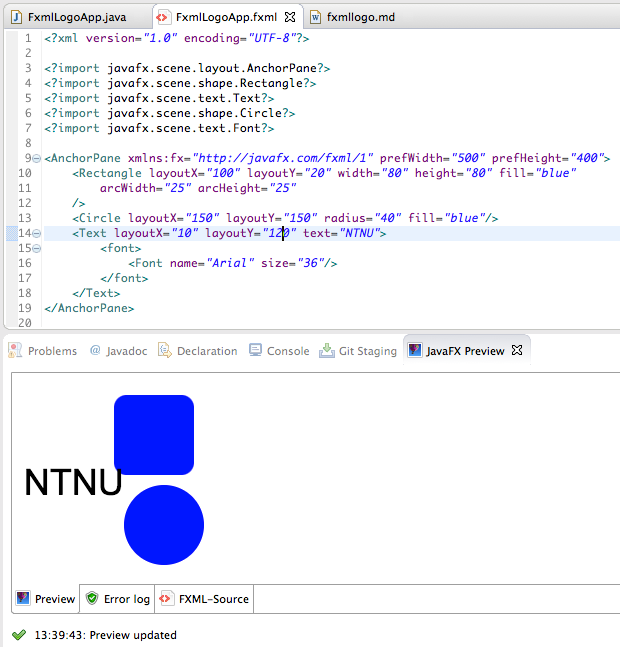
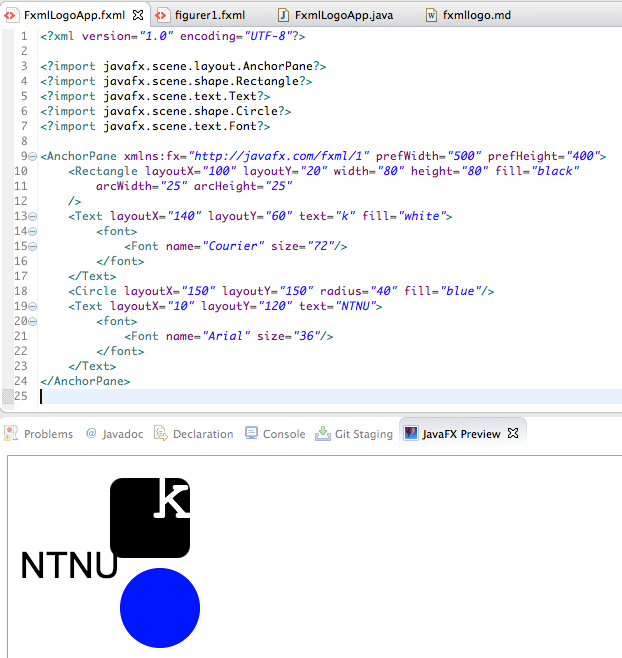
Bygget riktig branch denne gang

Changed region(s): [[0.0, 0.0, 0.9806, 0.9892], [0.6742, 0.0, 0.8274, 0.0618]]

diff --git a/oppgaver/javafx/fxmllogo/fxmllogo.html b/oppgaver/javafx/fxmllogo/fxmllogo.html
@@ -1,14 +1,28 @@
-<html><head><meta charset="utf-8"/><meta name="viewport" content="width=device-width, initial-scale=1"/><title>NTNU-logo med FXML | YourCodeClubName</title><link href="../../assets/style.min.css" rel="stylesheet"/></head><body><div class="container"><div class="row"><div class="col-xs-12"><div class="top-menu"><a href="../../index.html" class="btn btn-default"><span aria-hidden="true" class="glyphicon glyphicon-home"></span> Home</a></div></div><div class="col-xs-12"><header class="clearfix"><img src="../../assets/img/ccno_logo.png" class="logo hidden-xs"/><h1 class="title">NTNU-logo med FXML<a href="/javafx/fxmllogo/fxmllogo.pdf" title="Download PDF" class="download"><span class="glyphicon glyphicon-save-file"></span></a></h1></header></div><div class="col-xs-12"><div class="content"><section id="introduksjon" class="level1 intro">
+<html><head><meta charset="utf-8"/><meta name="viewport" content="width=device-width, initial-scale=1"/><title>Logo med FXML | YourCodeClubName</title><link href="../../assets/style.min.css" rel="stylesheet"/></head><body><div class="container"><div class="row"><div class="col-xs-12"><div class="top-menu"><a href="../../index.html" class="btn btn-default"><span aria-hidden="true" class="glyphicon glyphicon-home"></span> Home</a></div></div><div class="col-xs-12"><header class="clearfix"><img src="../../assets/img/ccno_logo.png" class="logo hidden-xs"/><h1 class="title">Logo med FXML<a href="/javafx/fxmllogo/fxmllogo.pdf" title="Download PDF" class="download"><span class="glyphicon glyphicon-save-file"></span></a></h1></header></div><div class="col-xs-12"><div class="content"><section id="introduksjon" class="level1 intro">
 <h1>Introduksjon</h1>
-<p>Formålet til denne leksjonen er å lære hvordan du kan bruke <strong>FXML</strong> for å lage skjerminnhold, og <strong>to måter</strong> å lage slikt innhold. I tillegg skal du lære hvordan du får app-en til å last inn og vise frem innholdet i FXML-filer.</p>
-<p>I leksjonen <a href="../helloworld/helloworld.html">Hello world</a> lærte du om hvordan du kan lage en app som viste et vindu med et tekst-objekt (av type <strong>Text</strong>). Da skrev du Java-kode som <em>laget</em> tekst-objektet, <em>satte grafiske egenskaper</em> for tekst.objektet og <em>la det til</em> app-vinduet. Slik kode kan fort bli lang og uoversiktlig, og det kan være vanskelig å skrive kode som har ønsker effekt og se for seg hvordan skjerminnholdet vil bli seende ut.</p>
-<p>For å gjøre arbeidet med skjerminnhold enklere, så finnes det en egen kode-type kalt FXML for å lage skjerminnhold. FXML ligner på HTML ved at det bruker XML-elementer, f.eks. <code class="lang-html"><span class="hljs-tag">&lt;<span class="hljs-title">Text</span> <span class="hljs-attribute">...</span>&gt;</span> ... <span class="hljs-tag">&lt;/<span class="hljs-title">Text</span>&gt;</span></code> og attributter, f.eks. <code class="lang-java">fill=<span class="hljs-string">"blue"</span></code> for å beskrive innholdet. Når en skal lage FXML-filer, kan en enten redigere FXML som tekst i en egen FXML-editor eller bruke en egen tegne-app som leser og skriver FXML-filer. Vi skal se på begge disse teknikkene i denne leksjonen.</p>
+<p>En viktig del av det å lage app-er er å utforme skjerminnholdet, dvs. alt app-en inneholder av grafikk, knapper, lister, osv. Formålet til denne leksjonen er å lære hvordan du kan bruke <strong>FXML</strong> for å lage skjerminnhold, og <strong>to måter</strong> å lage slikt innhold. I tillegg skal du lære hvordan du får app-en til å last inn og vise frem innholdet i FXML-filer. App-en er ikke så komplisert, den skal bare vise frem logoene til Kodeklubben og NTNU (eller andre logoer, hvis du ønsker det):</p>
+<table>
+<thead>
+<tr class="header">
+<th style="text-align: center;">Kodeklubben</th>
+<th style="text-align: center;">NTNU</th>
+</tr>
+</thead>
+<tbody>
+<tr class="odd">
+<td style="text-align: center;"><img src="../../../assets/img/ccno_logo.png"></td>
+<td style="text-align: center;"><img src="https://innsida.ntnu.no/documents/10157/3573032/logo2_ntnu_u-slagord.gif"></td>
+</tr>
+</tbody>
+</table>
+<p>I leksjonen <a href="../helloworld/helloworld.html">Hello world</a> lærte du om hvordan du kan lage en app som viste et vindu med et tekst-objekt (av type <strong>Text</strong>). Da skrev du Java-kode som <em>laget</em> tekst-objektet, <em>satte grafiske egenskaper</em> for tekst-objektet og <em>la det til</em> app-vinduet. Slik kode kan fort bli lang og uoversiktlig, og det kan være vanskelig å skrive kode som har ønsket effekt og se for seg hvordan skjerminnholdet vil bli seende ut.</p>
+<p>For å gjøre arbeidet med skjerminnhold enklere, så finnes det en egen kode-type kalt <strong>FXML</strong> for å lage skjerminnhold. FXML ligner på HTML ved at det bruker XML-elementer, f.eks. <code class="lang-html"><span class="hljs-tag">&lt;<span class="hljs-title">Text</span> <span class="hljs-attribute">...</span>&gt;</span> ... <span class="hljs-tag">&lt;/<span class="hljs-title">Text</span>&gt;</span></code> og attributter, f.eks. <code class="lang-java">fill=<span class="hljs-string">"blue"</span></code> for å beskrive innholdet. Når en skal lage FXML-filer, kan en enten redigere FXML som tekst i en egen FXML-editor eller bruke en egen tegne-app som leser og skriver FXML-filer. Vi skal se på begge disse teknikkene i denne leksjonen.</p>
 </section>
 <section id="steg-1-opprette-app-pakke-app-klasse-og-fxml-fil" class="level1 activity">
 <h1>Steg 1: Opprette app-pakke, app-klasse og FXML-fil</h1>
 <ul>
 <li><p>Lag først en ny app-pakke og app-klasse som forklart i <a href="../helloworld/helloworld.html">Hello world-leksjonen</a>. Bruk <strong>fxmllogo</strong> som navn på pakken og <strong>FxmlLogoApp</strong> som navn på app-klassen.</p></li>
-<li><p>Høyreklikk på fxmllogo-pakken og velg <code>New &gt; Other...</code> så du får opp en liste med såkalte <em>veivisere</em> (eng: <em>wizards</em>). Vi skal bruke den som heter <strong>FXML Document</strong>. Det enkleste er å skrive inn ‘fx’ i søkefeltet, for å snevre inn utvalget:</p>
+<li><p>Høyreklikk på <strong>fxmllogo</strong>-pakken og velg <code>New &gt; Other...</code> så du får opp en liste med såkalte <em>veivisere</em> (eng: <em>wizards</em>). Vi skal bruke den som heter <strong>New FXML Document</strong>. Det enkleste er å skrive inn ‘fx’ i søkefeltet, for å snevre inn utvalget:</p>
 <figure>
 <img src="../images/new-fxml-document.png" title="New FXML document">
 </figure>
@@ -20,10 +34,16 @@
 <figure>
 <img src="../images/initial-FxmlLogoApp.fxml.png" title="Initial FxmlLogoApp.fxml">
 </figure></li>
-<li><p>Rediger teksten slik at den blir som følger:</p>
+<li><p>Denne FXML-en gir bare et tomt panel (av typen <strong>AnchorPane</strong>), så for å få noe å jobbe med, så trenger vi Rediger teksten slik at den blir som følger:</p>
 <pre class="sourceCode xml"><code class="sourceCode xml lang-html"><span class="hljs-tag">&lt;<span class="hljs-title">AnchorPane</span> <span class="hljs-attribute">xmlns:fx</span>=<span class="hljs-value">"http://javafx.com/fxml/1"</span> <span class="hljs-attribute">prefWidth</span>=<span class="hljs-value">"500"</span> <span class="hljs-attribute">prefHeight</span>=<span class="hljs-value">"400"</span>&gt;</span>
-<span class="hljs-tag">&lt;<span class="hljs-title">Rectangle</span> <span class="hljs-attribute">layoutX</span>=<span class="hljs-value">"100"</span> <span class="hljs-attribute">layoutY</span>=<span class="hljs-value">"20"</span> <span class="hljs-attribute">width</span>=<span class="hljs-value">"80"</span> <span class="hljs-attribute">height</span>=<span class="hljs-value">"80"</span> <span class="hljs-attribute">fill</span>=<span class="hljs-value">"blue"</span>
-    <span class="hljs-attribute">arcWidth</span>=<span class="hljs-value">"25"</span> <span class="hljs-attribute">arcHeight</span>=<span class="hljs-value">"25"</span>/&gt;</span>
+<span class="hljs-tag">&lt;<span class="hljs-title">Rectangle</span> <span class="hljs-attribute">layoutX</span>=<span class="hljs-value">"100"</span> <span class="hljs-attribute">layoutY</span>=<span class="hljs-value">"20"</span> <span class="hljs-attribute">width</span>=<span class="hljs-value">"80"</span> <span class="hljs-attribute">height</span>=<span class="hljs-value">"80"</span> <span class="hljs-attribute">fill</span>=<span class="hljs-value">"black"</span>
+    <span class="hljs-attribute">arcWidth</span>=<span class="hljs-value">"25"</span> <span class="hljs-attribute">arcHeight</span>=<span class="hljs-value">"25"</span>
+/&gt;</span>
+<span class="hljs-tag">&lt;<span class="hljs-title">Text</span> <span class="hljs-attribute">layoutX</span>=<span class="hljs-value">"140"</span> <span class="hljs-attribute">layoutY</span>=<span class="hljs-value">"60"</span> <span class="hljs-attribute">text</span>=<span class="hljs-value">"k"</span> <span class="hljs-attribute">fill</span>=<span class="hljs-value">"white"</span>&gt;</span>
+    <span class="hljs-tag">&lt;<span class="hljs-title">font</span>&gt;</span>
+        <span class="hljs-tag">&lt;<span class="hljs-title">Font</span> <span class="hljs-attribute">name</span>=<span class="hljs-value">"Courier"</span> <span class="hljs-attribute">size</span>=<span class="hljs-value">"72"</span>/&gt;</span>
+    <span class="hljs-tag">&lt;/<span class="hljs-title">font</span>&gt;</span>
+<span class="hljs-tag">&lt;/<span class="hljs-title">Text</span>&gt;</span>
 <span class="hljs-tag">&lt;<span class="hljs-title">Circle</span> <span class="hljs-attribute">layoutX</span>=<span class="hljs-value">"150"</span> <span class="hljs-attribute">layoutY</span>=<span class="hljs-value">"150"</span> <span class="hljs-attribute">radius</span>=<span class="hljs-value">"40"</span> <span class="hljs-attribute">fill</span>=<span class="hljs-value">"blue"</span>/&gt;</span>
 <span class="hljs-tag">&lt;<span class="hljs-title">Text</span> <span class="hljs-attribute">layoutX</span>=<span class="hljs-value">"10"</span> <span class="hljs-attribute">layoutY</span>=<span class="hljs-value">"120"</span> <span class="hljs-attribute">text</span>=<span class="hljs-value">"NTNU"</span>&gt;</span>
     <span class="hljs-tag">&lt;<span class="hljs-title">font</span>&gt;</span>
@@ -34,17 +54,140 @@
 <p>FXML-editoren har samme type kode-komplettering som Java-editoren. Når du f.eks. har skrevet inn <code>&lt;Rect</code>, kan du trykk ctrl-mellomrom og editoren vil både fylle ut resten av <strong>Rectangle</strong>-navnet og legge til en import-setning øverst i fila (tilsvarende import-setningen i Java):</p>
 <p><code class="lang-html"><span class="hljs-pi">&lt;?import javafx.scene.shape.Rectangle?&gt;</span></code></p>
 <p>(Hvis du ikke bruker kode-kompletteringsfunksjonen, så må du skrive inn import-setningen selv.) Tilsvarende kan du bruke kode-komplettering på attributt-navnene <strong>layoutX</strong>, <strong>layoutY</strong>, <strong>width</strong>, <strong>height</strong>, <strong>fill</strong> osv.</p></li>
-<li><p>Mens du redigerer FXML-koden, så kan det være kjekt å se hvordan innholdet vil bli seende ut, når det lastes inn og vises frem. Eclipse har et eget panel kalt <strong>JavaFX preview</strong> som hele tiden laster inn FXML-koden du redigerer og viser frem innholdet. Dette åpnes ved å velge <code>Window &gt; Show View...</code> og så finne panelet i lista. Bruk søkefeltet for å filtrere lista (skriv ’, så panelet blir enklere å finne.</p>
+<li><p>Mens du redigerer FXML-koden, så kan det være kjekt å se hvordan innholdet vil bli seende ut, når det lastes inn og vises frem. Eclipse har et eget panel kalt <strong>JavaFX preview</strong> som hele tiden laster inn FXML-koden du redigerer og viser frem innholdet. Dette åpnes ved å velge <code>Window &gt; Show View...</code> og så finne panelet i lista. Bruk søkefeltet for å filtrere lista (skriv ‘pre’, så panelet blir enklere å finne.</p>
 <figure>
 <img src="../images/fxml-editor-with-preview-pane.png" title="FXML-editor med preview-panel">
-</figure></li>
+</figure>
+<p>Som du ser så inneholder FXML-fila allerede mange av de grafiske elementene som trengs for å lage begge logoene, men ikke alle. Din jobb blir å justere på FXML-koden, så logoene blir omtrent som vist øverst i denne leksjonen.</p></li>
 </ul>
 <section id="litt-om-fxml" class="level2">
 <h2>Litt om FXML</h2>
-<p>Du har kanskje kjent igjen mange av ordene i FXML-fila fra Java-koden du skrev i <a href="../helloworld/helloworld.html">Hello world-leksjonen</a>, og det er ikke tilfeldig. Enkelt sagt så tilsvarer elementnavnene i FXML-koden (ordet etter ‘&lt;’ og ‘&lt;/’), f.eks. <strong>Text</strong> og <strong>Rectangle</strong> Java-klasser, og attributtnavnene tilsvarer egenskaper, f.eks. <strong>layoutX</strong>, <strong>width</strong> og <strong>fill</strong>. Det er også noen elementnavn som tilsvarer egenskaper, f.eks. <strong>font</strong>. Når FXML-koden blir lest inn, så vil hvert element som tilsvarer en Java-klasse bli til en instans (et Java-objekt) av den klassen, og hvert attributt bli brukt til å sette en egenskap, som om en brukt tilsvarende <strong>set</strong>-metode.</p>
+<p>Du har kanskje kjent igjen mange av ordene i FXML-fila fra Java-koden du skrev i <a href="../helloworld/helloworld.html">Hello world-leksjonen</a>, og det er ikke tilfeldig. Enkelt sagt så tilsvarer elementnavnene i FXML-koden (ordet etter <code>&lt;</code> og <code>&lt;/</code>), f.eks. <strong>Text</strong> og <strong>Rectangle</strong> Java-klasser, og attributtnavnene tilsvarer egenskaper, f.eks. <strong>layoutX</strong>, <strong>width</strong> og <strong>fill</strong>. Det er også noen elementnavn som tilsvarer egenskaper, f.eks. <strong>font</strong>. Når FXML-koden blir lest inn, så vil hvert element som tilsvarer en Java-klasse bli til en instans (et Java-objekt) av den klassen, og hvert attributt bli brukt til å sette en egenskap, som om en brukte tilsvarende <strong>set</strong>-metode. Følgende Java- og FXML-kode betyr omtrent det samme:</p>
+<pre class="sourceCode java"><code class="sourceCode java lang-java">Circle circle = <span class="hljs-keyword">new</span> Circle();
+circle.setLayoutX(<span class="hljs-number">150</span>);
+circle.setLayoutY(<span class="hljs-number">150</span>);
+circle.setRadius(<span class="hljs-number">40</span>);
+circle.setFill(Color.BLUE);</code></pre>
+<pre class="sourceCode xml"><code class="sourceCode xml lang-html"><span class="hljs-tag">&lt;<span class="hljs-title">Circle</span> <span class="hljs-attribute">layoutX</span>=<span class="hljs-value">"150"</span> <span class="hljs-attribute">layoutY</span>=<span class="hljs-value">"150"</span> <span class="hljs-attribute">radius</span>=<span class="hljs-value">"40"</span> <span class="hljs-attribute">fill</span>=<span class="hljs-value">"blue"</span>/&gt;</span></code></pre>
+<p>Noen typer objekter, f.eks. paneler (typene <strong>Pane</strong>, <strong>HBox</strong>, <strong>VBox</strong> og <strong>AnchorPane</strong>), <em>inneholder</em> andre objekter. I Java-koden må en legge den ene til <strong>children</strong>-lista til den andre, mens en i FXML legger det ene elementet inni det andre:</p>
+<pre class="sourceCode java"><code class="sourceCode java lang-java">Pane pane = <span class="hljs-keyword">new</span> Pane();
+Circle circle = <span class="hljs-keyword">new</span> Circle();
+...
+pane.getChildren().add(circle);</code></pre>
+<pre class="sourceCode xml"><code class="sourceCode xml lang-html"><span class="hljs-tag">&lt;<span class="hljs-title">Pane</span>&gt;</span>
+    <span class="hljs-tag">&lt;<span class="hljs-title">Circle</span> <span class="hljs-attribute">layoutX</span>=<span class="hljs-value">"150"</span> <span class="hljs-attribute">layoutY</span>=<span class="hljs-value">"150"</span> <span class="hljs-attribute">radius</span>=<span class="hljs-value">"40"</span> <span class="hljs-attribute">fill</span>=<span class="hljs-value">"blue"</span>/&gt;</span>
+<span class="hljs-tag">&lt;/<span class="hljs-title">Pane</span>&gt;</span></code></pre>
 </section>
+</section>
+<section id="steg-2-åpne-og-redigere-fxml-fil-med-scenebuilder" class="level1 activity">
+<h1>Steg 2: Åpne og redigere FXML-fil med SceneBuilder</h1>
+<p>Det går greit å bruke FXML-editoren for enkel redigering (eller mer kompliserte ting, når en får erfaring), men det finnes et enklere alternativ, nemlig en grafisk editor kalt <strong>SceneBuilder</strong>. En kan faktisk åpne og redigere FXML-fila direkte i JavaFX Scene Builder (ofte bare kalt SceneBuilder), siden den bruker FXML som lagringsformat.</p>
+<ul>
+<li><p>Høyreklikk på FXML-fila og velg <code class="lang-python">Open <span class="hljs-keyword">with</span> SceneBuilder</code></p>
+<figure>
+<img src="../images/open-with-scenebuilder.png" title="Åpne med SceneBuilder">
+</figure>
+<p>Hvis du har installer SceneBuilder riktig, så skal du etter litt venting få opp følgende</p>
+<figure>
+<img src="../images/scene-builder-FxmlLogoApp-1.png" title="FxmlLogoApp.fxml åpnet med SceneBuilder">
+</figure>
+<p>Som du ser så inneholder panelet i midten de samme grafiske elementene som JavaFX Preview-panelet. Her kan du imidlertid <em>redigere</em> på dem, ved å velge, dra og slippe, som i vanlige tegneprogrammer.</p>
+<p>Nederst til venstre ser du trestrukturen av objekter, med et panel (<strong>AnchorPane</strong>) som inneholder et rektangel (<strong>Rectangle</strong>), en sirkel (<strong>Circle</strong>) og to tekst-objekter (<strong>Text</strong>).</p>
+<p>Øverst til venstre ser du en kategorisert liste med elementer som kan dras og slippes inn i redigeringspanelet i midten. I figuren vises bare såkalte <strong>Containers</strong>, som inneholder andre elementer, men (hvis du scroller) lenger ned finner du bl.a. <strong>Controls</strong> (interaktive elementer) og <strong>Shapes</strong> (grafiske elementer). Prøv å finne <strong>Line</strong>-typen og dra og slipp den litt til høyre for det svarte rektangelet. Hvis du vil endre på hvordan streken ser ut, så kan du redigere ulike <em>egenskaper</em> i panelet til høyre. Prøv f.eks. å gjøre streken tykkere (<strong>Stroke Width</strong> = 10), endre fargen til grønn (<strong>Stroke</strong> = #569900) og enden til avrundet (<strong>Stroke Line Cap</strong> = <strong>ROUND</strong>). Da skal det se omtrent slik ut:</p>
+<figure>
+<img src="../images/scene-builder-FxmlLogoApp-2.png" title="FxmlLogoApp.fxml åpnet med SceneBuilder">
+</figure>
+<p>Dette er omtrent de grafiske elementen du trenger for å lage Kodeklubben- og NTNU-logoene. Prøv å bruke redigeringsmulighetene til å få tegningen til å bli seende omtrent slik ut:</p>
+<figure>
+<img src="../images/scene-builder-FxmlLogoApp-3.png" title="Logoer redigert med SceneBuilder">
+</figure>
+<p>Her er noen tips om nyttige redigeringsfunksjoner som du kan bruke for å få laget og redigert grafikken:</p>
+<ul>
+<li>Du kan raskt lage en kopi (duplisere) et element med <code>Edit &gt; Duplicate</code></li>
+<li>Du kan runde av hjørnene på et rektangel ved å endre <strong>Arc Height</strong> og <strong>Arc Width</strong></li>
+<li>Når du klikker på <strong>Stroke</strong>- og <strong>Fill</strong>-egenskapene, så kommer det opp et nytt vindu med mulighet til å velge farge på flere måter (se under til venstre)</li>
+<li>Tilsvarende kan du stille inn navn og størrelsen på font-en til tekst-objekter ved å klikke på <strong>Font</strong>-egenskapen (se under til høyre)</li>
+</ul>
+<table>
+<thead>
+<tr class="header">
+<th style="text-align: center;">Valg av farge</th>
+<th style="text-align: center;">Valg av font</th>
+</tr>
+</thead>
+<tbody>
+<tr class="odd">
+<td style="text-align: center;"><img src="../images/color-picker.png"></td>
+<td style="text-align: center;"><img src="../images/font-picker.png"></td>
+</tr>
+</tbody>
+</table>
+<p>Spesielt fin-innstillingen av plassering og dimensjoner kan være vanskelig. Nede til høyre i SceneBuilder-vinduet finner du egenskaper med kategorien <strong>Layout</strong>, bl.a. koordinater og størrelse. Akkurat hvilke egenskaper du kan endre avhenger av hvilket grafisk element som er valgt. I figuren under ser du hva som kan endre på et rektangel.</p>
+<table>
+<thead>
+<tr class="header">
+<th style="text-align: center;">Layout-egenskaper</th>
+<th style="text-align: left;"></th>
+</tr>
+</thead>
+<tbody>
+<tr class="odd">
+<td style="text-align: center;"><img src="../images/layout-properties.png"></td>
+<td style="text-align: left;">Det er egentlig disse egenskapene du endrer, når du velger, drar og slipper de grafiske elementene og de små hjørne-boksene. Ved å redigere tallene, så kan du styre dem helt presist.</td>
+</tr>
+</tbody>
+</table></li>
+</ul>
+</section>
+<section id="steg-3-få-appen-til-å-vise-frem-innholdet-i-fxml-fila" class="level1 activity">
+<h1>Steg 3: Få appen til å vise frem innholdet i FXML-fila</h1>
+<p>Det siste trinnet i denne leksjonen er å få app-en til å vise frem det grafiske innholdet i app-vinduet. For å få dette til må du redigere koden i app-klassen din, som du laget i trinn én og heter <strong>FxmlLogoApp</strong>.</p>
+<ul>
+<li>Husk å lagre FXML-fila i SceneBuilder før du går tilbake til Eclipse.</li>
+<li>Klikk i FXML-editoren. Den skal da vise frem det nye innholdet, som er resultatet av all redigeringen du gjorde i SceneBuilder.</li>
+<li>Det er greit å gjøre endringer rett i FXML-koden i editor. Når du går tilbake til SceneBuilder, så sjekk om du ser de samme endringene der. Hvis ikke så må du kanskje lukke den og åpne den igjen med <code class="lang-python">Open <span class="hljs-keyword">with</span> SceneBuilder</code>.</li>
+<li><p>Velg editoren med <strong>FxmlLogoApp</strong>-klassen i (eller åpne den ved å dobbel-klikke på <strong>FxmlLogoApp.java</strong>) og rediger slik at du får følgende kode:</p>
+<pre class="sourceCode java"><code class="sourceCode java lang-java"><span class="hljs-keyword">package</span> fxmllogoapp;
+
+<span class="hljs-keyword">import</span> java.io.IOException;
+
+<span class="hljs-keyword">import</span> javafx.application.Application;
+<span class="hljs-keyword">import</span> javafx.fxml.FXMLLoader;
+<span class="hljs-keyword">import</span> javafx.scene.Scene;
+<span class="hljs-keyword">import</span> javafx.scene.layout.Pane;
+<span class="hljs-keyword">import</span> javafx.stage.Stage;
+
+<span class="hljs-keyword">public</span> <span class="hljs-class"><span class="hljs-keyword">class</span> <span class="hljs-title">FxmlLogoApp</span> <span class="hljs-keyword">extends</span> <span class="hljs-title">Application</span> </span>{
+
+    <span class="hljs-function"><span class="hljs-keyword">public</span> <span class="hljs-keyword">void</span> <span class="hljs-title">start</span><span class="hljs-params">(Stage primaryStage)</span> <span class="hljs-keyword">throws</span> IOException </span>{
+        FXMLLoader fxmlLoader = <span class="hljs-keyword">new</span> FXMLLoader(FxmlLogoApp.class.getResource(<span class="hljs-string">"FxmlLogoApp.fxml"</span>));
+        Pane root = fxmlLoader.load();
+        primaryStage.setScene(<span class="hljs-keyword">new</span> Scene(root));
+        primaryStage.show();
+    }
+
+    <span class="hljs-function"><span class="hljs-keyword">public</span> <span class="hljs-keyword">static</span> <span class="hljs-keyword">void</span> <span class="hljs-title">main</span><span class="hljs-params">(String[] args)</span> </span>{
+        launch(FxmlLogoApp.class, args);
+    }
+}</code></pre>
+Trikset her er å lage et <strong>FXMLLoader</strong>-objekt (første linje i start-metoden, og be denne laste inn FXML-fila med load-metoden (andre linje).</li>
+<li><p>Kjør app-en ved å høyre-klikke på fila eller i editoren og velge <code class="lang-python">Run <span class="hljs-keyword">as</span> &gt; Java Application</code>. Da skal det (etter litt venting) dukke opp et vindu som dette:</p>
+<figure>
+<img src="../images/run-FxmlLogoApp-as-java-application.png">
+</figure></li>
+</ul>
 </section>
 <section id="hva-har-du-lært" class="level1">
 <h1>Hva har du lært?</h1>
+<ul>
+<li>lage en FXML-fil med Eclipse sin veiviser</li>
+<li>redigere FXML i Eclipse sin FXML-editor.</li>
+<li>se forhåndsvisning av FXML-innholdet i JavaFX Preview-panelet</li>
+<li>åpne FXML-fila i JavaFX Scene Builder med <code class="lang-python">Open <span class="hljs-keyword">with</span> SceneBuilder</code></li>
+<li>legge nye elementer til FXML-fila ved å dra og slippe fra SceneBuilder sin paletten</li>
+<li>redigere grafiske egenskaper i SceneBuilder</li>
+<li>skrive app-kode som laster inn og viser frem FXML-fila i et app-vindu</li>
+</ul>
+<p>I leksjonen <a href="../kalkulatorfx/kalkulatorfx.html">KalkulatorFX</a> vil du lære hvordan du kan koble FXML-koden til Java-koden og gjøre app-en levende (interaktiv)!</p>
 </section>
 </div></div><div class="col-xs-12"><div id="footer" class="clearfix"><div class="license"><p><strong>License:</strong></p><a rel="license" href="http://creativecommons.org/licenses/by-sa/4.0/">CC BY-SA 4.0</a></div></div></div></div></div><script src="../../assets/script.min.js"></script></body></html>

diff --git a/oppgaver/index.html b/oppgaver/index.html
@@ -39,4 +39,4 @@ Oppgave
 
 
 </section>
-</div></div><div id="javafx" class="col-sm-6 col-md-4"><h2 class="clearfix">Javafx<a href="javafx.zip" title="Download all javafx lessons" class="download"><span class="glyphicon glyphicon-download-alt"></span></a></h2><a href="javafx/fxmllogo/fxmllogo.html"><li class="lesson level-1">NTNU-logo med FXML</li></a><a href="javafx/helloworld/helloworld.html"><li class="lesson level-1">Hello world</li></a></div><div class="col-xs-12"><div id="footer" class="clearfix"><div class="license"><p><strong>License:</strong></p><a rel="license" href="http://creativecommons.org/licenses/by-sa/4.0/">CC BY-SA 4.0</a></div></div></div></div></div><script src="assets/script.min.js"></script></body></html>
+</div></div><div id="javafx" class="col-sm-6 col-md-4"><h2 class="clearfix">Javafx<a href="javafx.zip" title="Download all javafx lessons" class="download"><span class="glyphicon glyphicon-download-alt"></span></a></h2><a href="javafx/fxmllogo/fxmllogo.html"><li class="lesson level-1">Logo med FXML</li></a><a href="javafx/helloworld/helloworld.html"><li class="lesson level-1">Hello world</li></a></div><div class="col-xs-12"><div id="footer" class="clearfix"><div class="license"><p><strong>License:</strong></p><a rel="license" href="http://creativecommons.org/licenses/by-sa/4.0/">CC BY-SA 4.0</a></div></div></div></div></div><script src="assets/script.min.js"></script></body></html>

diff --git a/oppgaver/javafx/helloworld/helloworld.html b/oppgaver/javafx/helloworld/helloworld.html
@@ -170,5 +170,6 @@
 <li>hvordan endre verdier for plassering, skriftstype, farge og vindusstørrelse</li>
 <li>hvordan bruke kode-kompletteringsfunksjonen</li>
 </ul>
+<p>I leksjonen <a href="../fxmllogo/fxmllogo.html">FXML-logo</a> vil du lære hvordan lage skjerminnhold med FXML og tegne med JavaFX Scene Builder.</p>
 </section>
 </div></div><div class="col-xs-12"><div id="footer" class="clearfix"><div class="license"><p><strong>License:</strong></p><a rel="license" href="http://creativecommons.org/licenses/by-sa/4.0/">CC BY-SA 4.0</a></div></div></div></div></div><script src="../../assets/script.min.js"></script></body></html>
